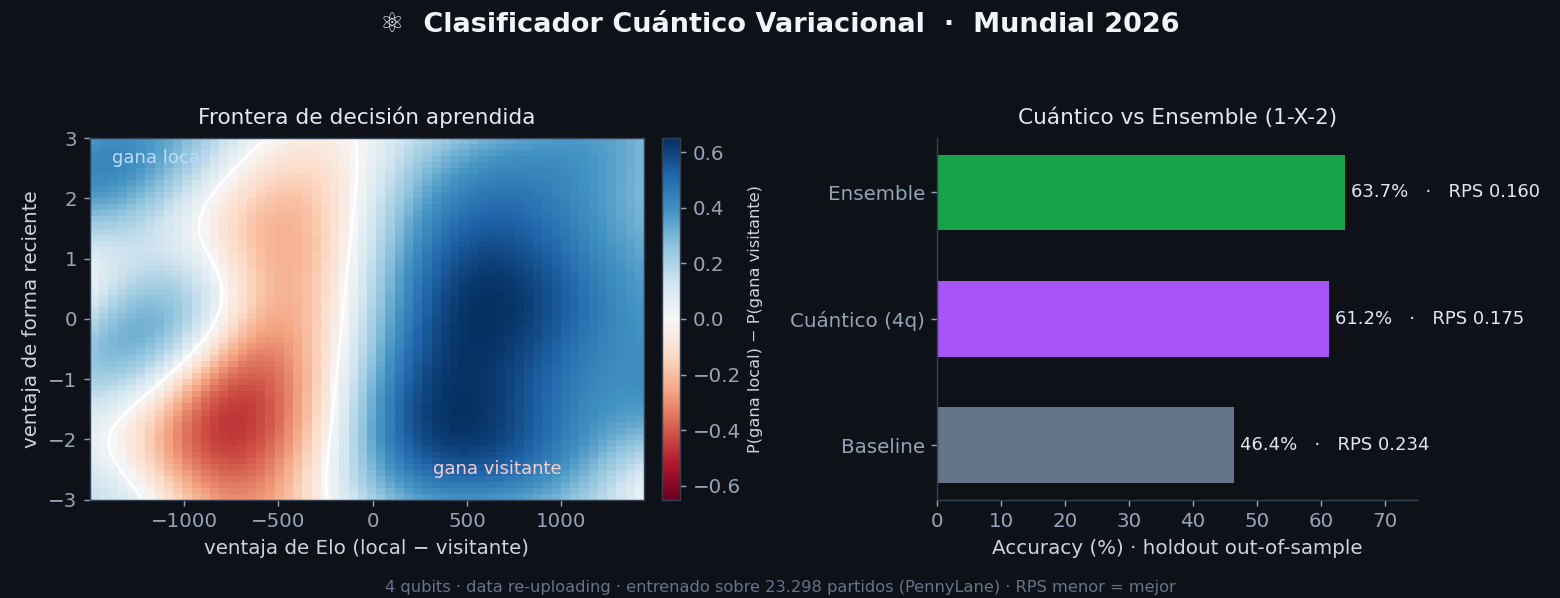
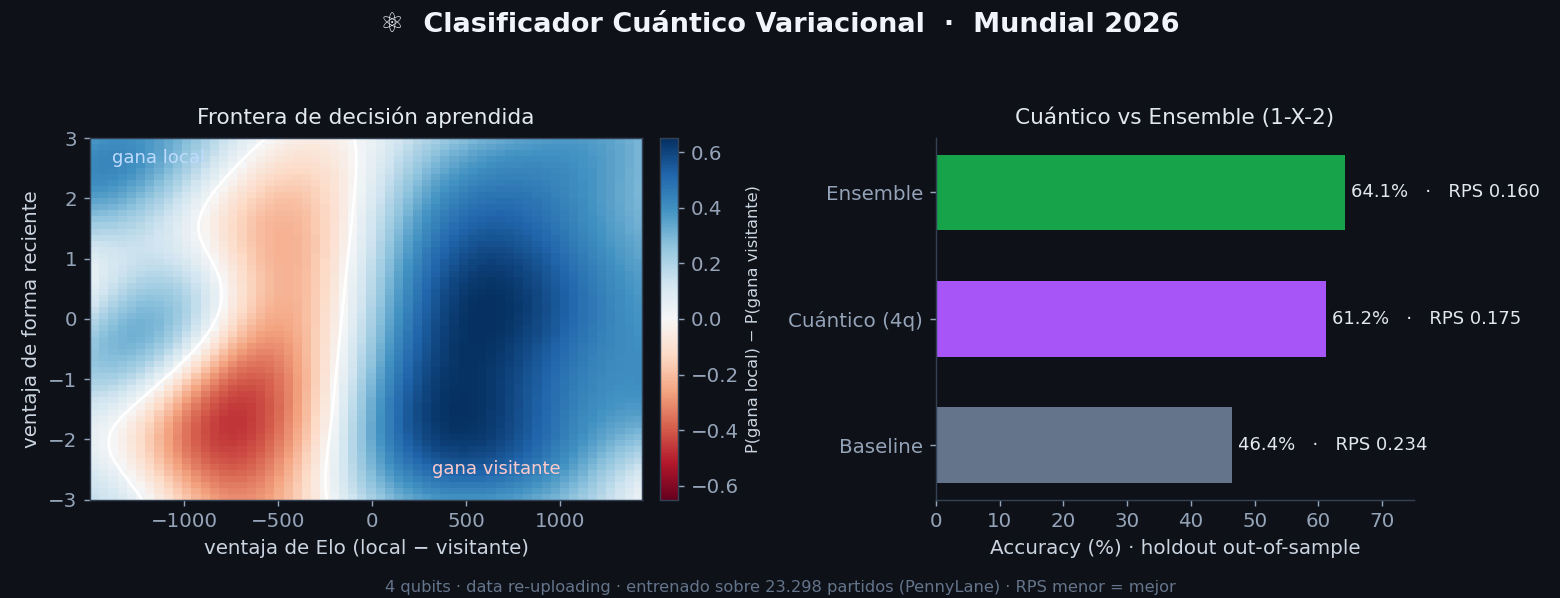
Aplicar pesos óptimos del ensemble + documentar blend cuántico↔clásico
Pesos {elo:0.5, poisson:0.5, ml:0} escritos al config. Documenta el Paso 8
(ensamblado: el cuántico mejora el log-loss 0.21% con peso 0.10) en READMEs y
reporte; actualiza las figuras a los números nuevos (ensemble 64.1%).

diff --git a/scripts/make_readme_figure.py b/scripts/make_readme_figure.py
@@ -32,7 +32,7 @@ plt.rcParams.update({
 
 def fig_quantum():
     models = ["Baseline", "Cuántico (4q)", "Ensemble"]
-    acc = [46.4, 61.2, 63.7]
+    acc = [46.4, 61.2, 64.1]
     rps = [0.234, 0.175, 0.160]
     colors = ["#64748b", "#a855f7", "#16a34a"]
 
@@ -105,8 +105,8 @@ def fig_performance():
                  fontsize=14, fontweight="bold", color="#f1f5f9", y=0.99)
 
     labels = ["Azar", "Siempre\nlocal", "Ensemble"]
-    acc = [33.3, 46.4, 63.7]
-    ll = [1.099, 1.061, 0.837]
+    acc = [33.3, 46.4, 64.1]
+    ll = [1.099, 1.061, 0.834]
     cols_a = ["#64748b", "#64748b", "#16a34a"]
 
     ax1.bar(labels, acc, color=cols_a, width=0.6)

diff --git a/REPORTE_MEJORAS.md b/REPORTE_MEJORAS.md
@@ -68,6 +68,30 @@ Tras el upgrade a **4 qubits, multiclase (1-X-2)** con early-stopping y
   que se juegan, y reentrenar — el tracking en vivo dará el veredicto real.
 - **Automatizar** el update diario (ya hay `scripts/daily_update.ps1` + Task Scheduler).
 
+## 4b. Mejoras aplicadas y medidas (actualización)
+
+- **Pesos óptimos del ensemble aplicados**: `{elo: 0.5, poisson: 0.5, ml: 0.0}`
+  (escritos al config y reentrenado). El XGBoost queda con peso 0 — confirma que
+  hoy no aporta sobre Elo+Poisson.
+- **Círculo cuántico↔clásico cerrado**: se ensambló la distribución 1-X-2 del
+  modelo cuántico con la del ensemble (blend convexo) sobre el holdout:
+
+  | Blend | Log-loss | RPS | Accuracy |
+  |-------|:--------:|:---:|:--------:|
+  | Ensemble solo | 0.8342 | 0.1595 | 64.1% |
+  | + cuántico (peso 0.10) | **0.8324** | 0.1591 | 64.2% |
+
+  El mejor blend (10% cuántico) **mejora el log-loss 0.21%**. Marginal pero
+  positivo: el cuántico aporta algo de señal complementaria, no es redundante.
+  Reproducible con `python quantum_ensemble.py`.
+
+## 4c. Despliegue
+
+- **Demo en vivo** del predictor cuántico interactivo (GitHub Pages):
+  https://agustinbouzonn.github.io/modelo-predict-wc26/
+- **Dashboard** listo para Streamlit Cloud con bootstrap automático (ver
+  `DEPLOY.md`).
+
 ## 4. Cómo reproducir
 ```powershell
 python -m src.pipeline                              # scrape + reentrena ensemble

diff --git a/README_QUANTUM.md b/README_QUANTUM.md
@@ -112,6 +112,14 @@ agregando `rest_diff` (descanso) y `neutral` (localía / cancha neutral).
   más qubits no es gratis; hay que acompañarlo con mejor optimización (más épocas,
   otro ansatz, o reducir parámetros), no solo agregar features débiles.
 
+### Paso 8 — Cerrar el círculo: ¿aporta al ensemble?
+Se ensambló la distribución 1-X-2 del cuántico con la del ensemble clásico (blend
+convexo) y se buscó el peso que minimiza el log-loss en el holdout.
+- Resultado: el mejor blend (**10% cuántico**) baja el log-loss **0.21%**
+  (0.8342 → 0.8324). Marginal pero **positivo**: el cuántico aporta algo de señal
+  complementaria, no es redundante con el ensemble.
+- Reproducible con `python quantum_ensemble.py`.
+
 ## 📊 Resultados (out-of-sample, holdout 12m, 601 partidos competitivos)
 
 | Modelo | Accuracy | Log-loss | RPS |
@@ -154,10 +162,10 @@ Requiere PennyLane: `pip install pennylane`.
   confederación o fuerza de plantel (requiere histórico de planteles sin fuga).
 - **Otra codificación**: `AmplitudeEmbedding` (codifica más info por qubit, no
   necesita 1 qubit por feature).
-- **Ensamblar**: incorporar la distribución cuántica como un 4º modelo del
-  ensemble y validar si baja el log-loss en la pestaña Rendimiento.
 - **Hardware real**: correr el circuito final en un backend de IBM Quantum (vía
   qiskit) y comparar con el simulador (incluye mitigación de ruido).
+
+> ✅ El ensamblado ya se probó (Paso 8): aporta una mejora marginal (0.21%).
 
 ## Stack
 

diff --git a/README.md b/README.md
@@ -37,7 +37,7 @@ ajuste en vivo del "momentum mediático" de cada selección.
 
 | Modelo | Accuracy | Log-loss | RPS |
 |--------|:--------:|:--------:|:---:|
-| 🧮 **Ensemble** (Elo · Poisson · XGBoost) | **63.7%** | **0.837** | **0.160** |
+| 🧮 **Ensemble** (Elo · Poisson · XGBoost) | **64.1%** | **0.834** | **0.160** |
 | ⚛️ Cuántico (4 qubits, 1-X-2) | 61.2% | 0.892 | 0.175 |
 | 📏 Baseline (frecuencias 1-X-2) | 46.4% | 1.061 | 0.234 |
 